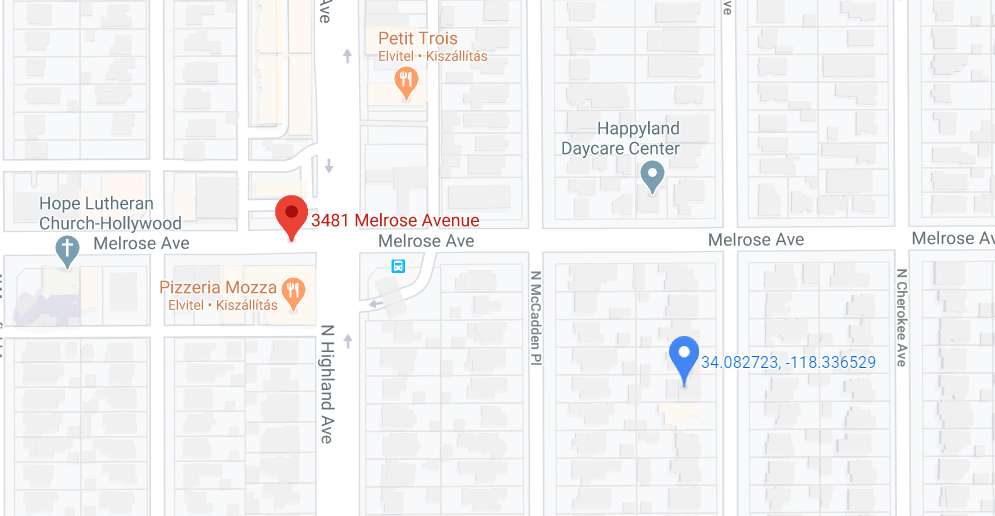
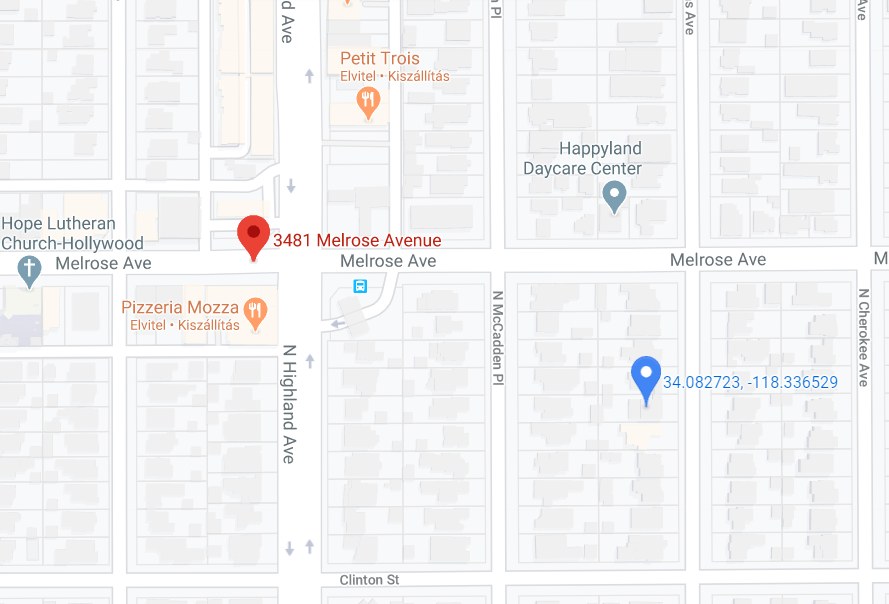
added 'contact-card' section

diff --git a/main.css b/main.css
@@ -8,6 +8,7 @@ body {
   width: 100vw;
   height: 100vh;
   font-family: 'Montserrat', sans-serif;
+  font-size: 1rem;
   background-color: #F4F3F5;  
 }
 
@@ -19,7 +20,7 @@ main,container {
   width: 90%;
   height: 60vh;
   margin: 0 auto;
-  background-color: green;
+  background-color: #ffffff;
   border-radius: 15px;
   padding: 1.5rem;
   display: table;
@@ -52,21 +53,68 @@ h2, p{
 }
 
 
+
 /*====IMAGES====*/
-.logo {
+
+.logo, .map {
   display: block;
   margin: 0 auto;
+}
+
+.logo {
   padding: 1rem;
 }
 
-.map {
-  display: block;
-  margin: 0 auto;
+main .map {
   width: 100%;
+  border-radius: 15px;
+  margin-bottom: 2rem;
 }
 
 
 /*====TYPOGRAPHY====*/
+
+/* Top Navigation */
+
+nav li {
+  font-size: 1rem;
+  font-weight: 600;
+  line-height: 2.5;
+  letter-spacing: .2rem;
+}
+
+nav a {
+  text-decoration: none;
+  text-transform: uppercase;
+  color: #F4F3F5;
+}
+
+
+/* Contact card */
+
+h2, 
+.e-mail, .phone {
+  text-transform: uppercase;
+  color: #6200EA;
+  font-weight: 600;
+  letter-spacing: .2rem;
+}
+
+h2 {
+  font-size: 1rem;
+  line-height: 1.5;
+}
+
+p {
+  font-size: 0.9rem;
+  line-height: 1.2;
+  letter-spacing: .03rem;
+  margin-bottom: 1.5rem;
+}
+
+.phone {
+  margin-bottom: .5rem;
+}
 
 
 
@@ -81,16 +129,10 @@ nav ul {
 }
 
 nav li {
-  font-size: 1rem;
-  line-height: 2.5;
-  letter-spacing: .125rem;
   border-bottom: 1.5px solid #ffffff;
 }
 
 nav a {
-  text-decoration: none;
-  text-transform: uppercase;
-  color: #F4F3F5;
   display: block;
 }
 

diff --git a/index.html b/index.html
@@ -5,6 +5,7 @@
   <title>Info page</title>
   <meta name="viewport" content="width=device-width, initial-scale=1">
   <link rel="stylesheet" href="https://cdnjs.cloudflare.com/ajax/libs/meyer-reset/2.0/reset.css">
+  <link href="https://fonts.googleapis.com/css2?family=Montserrat:wght@400;600&display=swap" rel="stylesheet">
   <link rel="stylesheet" type="text/css" href="main.css">
   <link href="https://maxcdn.bootstrapcdn.com/font-awesome/4.7.0/css/font-awesome.min.css" rel="stylesheet">
 </head>
@@ -30,8 +31,8 @@
           <img class="map" src="assets/map.png" alt="map">
           <h2>Address</h2>
           <p>3481 Melrose Avenue,<br>Beverly Hills, CA 90210, USA</p>
-          <span>(123)456-7890</span>
-          <p>name@example.com</p>
+          <p class="phone">(123)456-7890</p>
+          <p class="e-mail">name@example.com</p>
           <section class="icons">
             <ul>
               <li><a href="#">Facebook</a></li>
